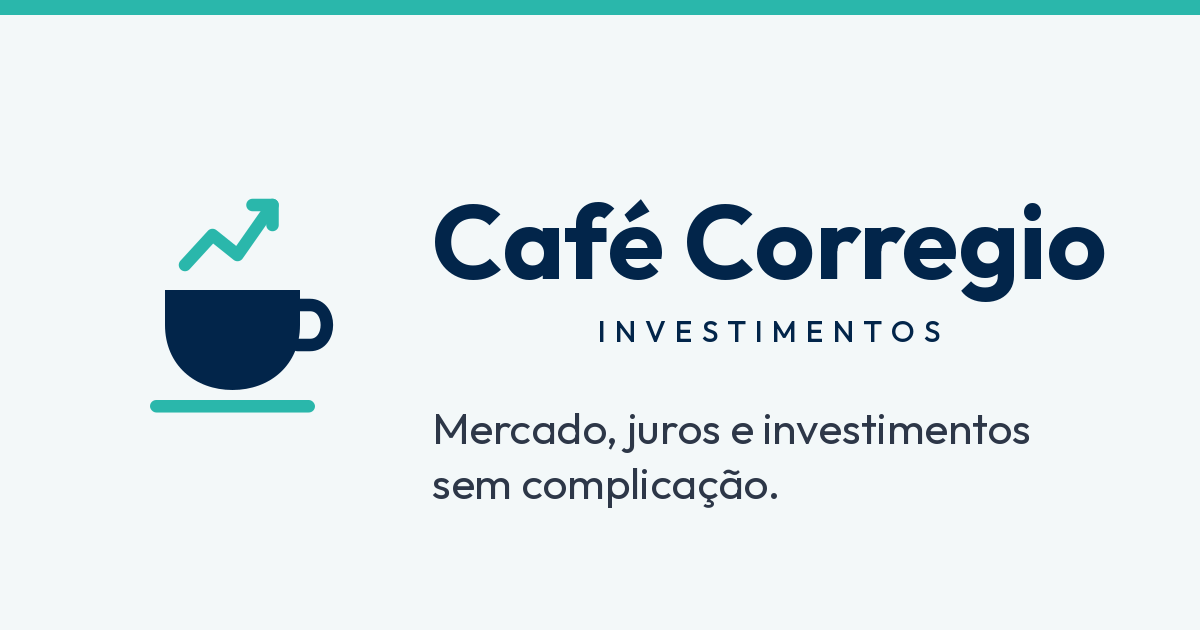
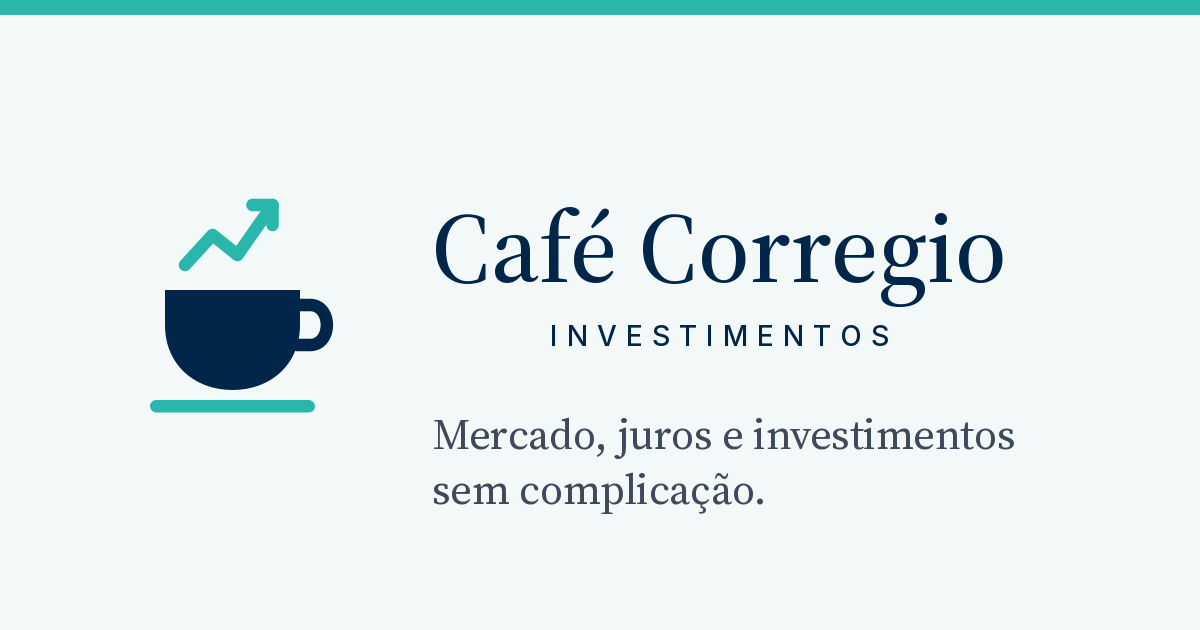
Add files via upload

Changed region(s): [[0.37, 0.3016, 0.925, 0.573], [0.3392, 0.6635, 0.8633, 0.8143]]

diff --git a/index.html b/index.html
@@ -29,26 +29,26 @@
 <meta name="twitter:card" content="summary_large_image">
 <link rel="preconnect" href="https://fonts.googleapis.com">
 <link rel="preconnect" href="https://fonts.gstatic.com" crossorigin>
-<link href="https://fonts.googleapis.com/css2?family=Outfit:wght@400;500;600;700;800&display=swap" rel="stylesheet">
+<link href="https://fonts.googleapis.com/css2?family=Source+Serif+4:wght@400;500&family=Inter:wght@400;500;600&display=swap" rel="stylesheet">
 <style>
-:root{--ink:#02254A;--accent:#2AB7AB;--teal:#0C717B;--ground:#F3F8F9;--line:#D9DEE5;--muted:#4A5568;--text:#2D3748}
+:root{--ink:#02254A;--accent:#2AB7AB;--teal:#0C717B;--ground:#F3F8F9;--line:#D9DEE5;--muted:#5A6577;--text:#3D4A5C}
 *{box-sizing:border-box}
 html{scroll-behavior:smooth}
-body{margin:0;font-family:'Outfit',sans-serif;background:var(--ground);color:var(--ink)}
+body{margin:0;font-family:'Inter',sans-serif;background:var(--ground);color:var(--ink)}
 a{color:var(--ink)}a:hover{color:var(--teal)}
-h1,h2{font-family:'Outfit',sans-serif;font-weight:700;margin:0;letter-spacing:-0.01em}
-.num{font-variant-numeric:tabular-nums;font-weight:800}
+h1,h2{font-family:'Source Serif 4',serif;font-weight:400;margin:0;letter-spacing:-0.01em}
+.num{font-variant-numeric:tabular-nums;font-weight:500}
 .wrap{max-width:1200px;margin:0 auto;padding:0 24px}
-.eyebrow{font-size:13px;font-weight:800;letter-spacing:.08em;text-transform:uppercase}
+.eyebrow{font-size:13px;font-weight:600;letter-spacing:.08em;text-transform:uppercase}
 /* faixa */
 .ticker{background:var(--ink);color:#fff;display:flex;align-items:center;min-height:44px;overflow:hidden}
-.ticker .tag{flex:none;margin:0 16px;background:var(--accent);color:var(--ink);font-size:13px;font-weight:800;padding:6px 12px;border-radius:999px}
+.ticker .tag{flex:none;margin:0 16px;background:var(--accent);color:var(--ink);font-size:13px;font-weight:600;padding:6px 12px;border-radius:999px}
 .ticker .view{overflow:hidden;flex:1;min-width:0}
 .track{display:flex;width:max-content;animation:marquee 60s linear infinite;will-change:transform}
 .ticker:hover .track,.ticker:focus-within .track{animation-play-state:paused}
 .group{display:flex;flex:none}
 .group span{padding-right:48px;white-space:nowrap;font-size:14px}
-.group a{color:#fff;font-weight:800}
+.group a{color:#fff;font-weight:600}
 @keyframes marquee{from{transform:translate3d(0,0,0)}to{transform:translate3d(calc(-1 * var(--w,100px)),0,0)}}
 @media (prefers-reduced-motion:reduce){.track{animation:none}.ticker .view{overflow-x:auto}}
 /* cabeçalho */
@@ -56,13 +56,13 @@ header{background:#fff;border-bottom:1px solid var(--line)}
 header .wrap{display:flex;align-items:center;justify-content:space-between;gap:24px;flex-wrap:wrap;padding-top:12px;padding-bottom:12px}
 .brand{display:flex;align-items:center;gap:14px;text-decoration:none}
 .brand svg{display:block;flex:none}
-.brand b{display:block;font-family:'Outfit',sans-serif;font-size:30px;line-height:1;font-weight:700;letter-spacing:0}
+.brand b{display:block;font-family:'Source Serif 4',serif;font-size:30px;line-height:1;font-weight:500;letter-spacing:0}
 .brand>span{display:flex;flex-direction:column;gap:6px}
 .brand i{display:block;text-align:center;font-style:normal;font-size:11px;line-height:1;font-weight:500;letter-spacing:.3em;padding-left:.3em}
 nav{display:flex;gap:6px;flex-wrap:wrap}
 nav a{text-decoration:none;padding:12px 14px;font-size:15px;font-weight:600;border-bottom:3px solid transparent}
-nav a.on{font-weight:800;border-bottom-color:var(--accent)}
-.btn{display:inline-block;background:var(--ink);color:#fff;text-decoration:none;font-weight:800;font-size:15px;padding:14px 22px;border-radius:8px;border:0;font-family:inherit;cursor:pointer}
+nav a.on{font-weight:600;border-bottom-color:var(--accent)}
+.btn{display:inline-block;background:var(--ink);color:#fff;text-decoration:none;font-weight:600;font-size:15px;padding:14px 22px;border-radius:8px;border:0;font-family:inherit;cursor:pointer}
 .btn:hover{color:#fff;background:#03356b}
 /* corpo */
 main{padding:40px 0 56px;display:flex;flex-direction:column;gap:48px}
@@ -75,18 +75,18 @@ main{padding:40px 0 56px;display:flex;flex-direction:column;gap:48px}
 .dark p{margin:0;font-size:17px;line-height:1.6;color:#E2E8F0}
 .dark .eyebrow{color:var(--accent)}
 .by{display:flex;align-items:center;gap:14px;padding-top:8px}
-.avatar{width:48px;height:48px;border-radius:50%;background:var(--accent);color:var(--ink);display:flex;align-items:center;justify-content:center;font-weight:800;font-size:18px;flex:none}
+.avatar{width:48px;height:48px;border-radius:50%;background:var(--accent);color:var(--ink);display:flex;align-items:center;justify-content:center;font-weight:600;font-size:18px;flex:none}
 .by small{display:block;font-size:14px;color:#CBD5E1}
-.draft{background:#FDE68A;color:#02254A;font-size:12px;font-weight:800;padding:4px 10px;border-radius:999px;align-self:flex-start}
+.draft{background:#FDE68A;color:#02254A;font-size:12px;font-weight:600;padding:4px 10px;border-radius:999px;align-self:flex-start}
 .card{background:#fff;border:1px solid var(--line);border-radius:16px;padding:28px;display:flex;flex-direction:column;gap:12px}
 .card h2{font-size:24px}
 .card p{margin:0;font-size:16px;line-height:1.6;color:var(--text)}
 .sec-head{display:flex;justify-content:space-between;align-items:center;gap:12px;flex-wrap:wrap;margin-bottom:14px}
 .sec-head h2{font-size:28px}
-.mar{background:#EAF7F6;color:var(--teal);font-size:13px;font-weight:800;padding:6px 12px;border-radius:999px}
+.mar{background:#EAF7F6;color:var(--teal);font-size:13px;font-weight:600;padding:6px 12px;border-radius:999px}
 .stats{display:grid;grid-template-columns:repeat(auto-fit,minmax(210px,1fr));gap:16px}
 .stat{background:#fff;border:1px solid var(--line);border-radius:12px;padding:20px;display:flex;flex-direction:column;gap:6px}
-.stat span:first-child{font-size:14px;font-weight:700;color:var(--muted)}
+.stat span:first-child{font-size:14px;font-weight:600;color:var(--muted)}
 .stat .v{font-size:30px}
 .stat small{font-size:13px;color:var(--muted)}
 .stat small.up{color:#0B7A4B;font-weight:600}
@@ -96,13 +96,13 @@ main{padding:40px 0 56px;display:flex;flex-direction:column;gap:48px}
 .news{display:grid;grid-template-columns:repeat(auto-fit,minmax(280px,1fr));gap:16px}
 .news a{background:#fff;border:1px solid var(--line);border-radius:12px;padding:22px;text-decoration:none;display:flex;flex-direction:column;gap:10px}
 .news a:hover{border-color:var(--teal)}
-.news small{font-size:13px;font-weight:700;color:var(--muted)}
+.news small{font-size:13px;font-weight:600;color:var(--muted)}
 .news strong{font-size:18px;line-height:1.35}
 .panel{background:#fff;border:1px solid var(--line);border-radius:16px;padding:36px;display:grid;grid-template-columns:repeat(auto-fit,minmax(300px,1fr));gap:36px;scroll-margin-top:16px;align-items:center}
 .panel h2{font-size:32px;line-height:1.2}
 .panel .eyebrow{color:var(--teal)}
 .fields{display:grid;grid-template-columns:repeat(2,minmax(0,1fr));gap:14px;margin-top:16px}
-label{font-size:14px;font-weight:700;display:block;margin-bottom:6px}
+label{font-size:14px;font-weight:600;display:block;margin-bottom:6px}
 input[type=text],input[type=email]{width:100%;min-height:48px;padding:0 14px;font-family:inherit;font-size:17px;border:1px solid #8A94A3;border-radius:8px}
 .note{margin:14px 0 0;font-size:13px;line-height:1.5;color:var(--muted)}
 .result{background:var(--ink);color:#fff;border-radius:12px;padding:28px;display:flex;flex-direction:column;gap:18px;justify-content:center}
@@ -122,7 +122,7 @@ input[type=text],input[type=email]{width:100%;min-height:48px;padding:0 14px;fon
 .comp[hidden],.panelgrid[hidden]{display:none}
 .fields3{display:grid;grid-template-columns:repeat(auto-fit,minmax(170px,1fr));gap:14px}
 .prods{border:0;padding:0;margin:0}
-.prods legend{font-size:14px;font-weight:700;margin-bottom:8px;padding:0}
+.prods legend{font-size:14px;font-weight:600;margin-bottom:8px;padding:0}
 .hip select,.fields3 select{width:100%;min-height:48px;padding:0 10px;font-family:inherit;font-size:16px;border:1px solid #8A94A3;border-radius:8px;background:#fff;color:var(--ink)}
 .chks{display:flex;flex-wrap:wrap;gap:8px}
 .chk{display:inline-flex;align-items:center;gap:8px;border:1px solid var(--line);border-radius:999px;padding:8px 14px;font-size:14px;font-weight:500;margin:0;cursor:pointer;min-height:40px}
@@ -131,13 +131,13 @@ input[type=text],input[type=email]{width:100%;min-height:48px;padding:0 14px;fon
 .cres{display:flex;flex-direction:column;gap:14px}
 .crow{display:flex;flex-direction:column;gap:6px}
 .crow .top{display:flex;justify-content:space-between;align-items:baseline;gap:10px;flex-wrap:wrap}
-.crow .nome{font-size:17px;font-weight:700}
+.crow .nome{font-size:17px;font-weight:600}
 .crow .val{font-size:20px}
 .crow .bar{height:12px;border-radius:999px;background:#E6EEF1;overflow:hidden}
 .crow .bar i{display:block;height:100%;background:var(--accent);border-radius:999px}
 .crow.top1 .bar i{background:var(--ink)}
 .crow small{font-size:13px;color:var(--muted);line-height:1.45}
-.badge{background:var(--ink);color:#fff;font-size:11px;font-weight:700;padding:3px 8px;border-radius:999px;margin-left:8px;vertical-align:middle}
+.badge{background:var(--ink);color:#fff;font-size:11px;font-weight:600;padding:3px 8px;border-radius:999px;margin-left:8px;vertical-align:middle}
 
 .check{display:flex;gap:10px;align-items:flex-start}
 .check input{width:22px;height:22px;margin:2px 0 0;flex:none}
